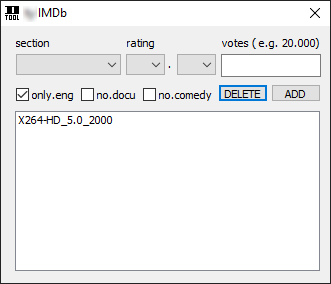
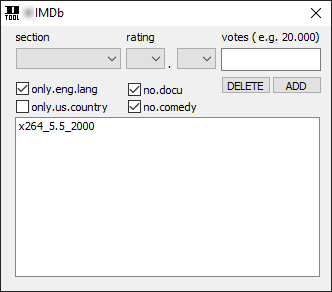
8.7.5

diff --git a/SiteSetup.html b/SiteSetup.html
@@ -199,7 +199,7 @@ Pfad dann bei mehreren Subdirs so angeben: DIR/SUBDIR/SUBDIR      <br>
         <strong>- mp3 foreign</strong><br />
         Den Foreigncheck bei MP3/FLAC Sektionen ausschalten <br>
         <strong>- IMDb</strong><br>
-        Zum einstellen der erlaubten Ratings und Votes bei Filmen. Zusätzlich kann man in englischen Filmsektionen  checken lassen ob die Sprache Englisch, es Doku oder Comedy ist.<br />
+        Zum einstellen der erlaubten Ratings und Votes bei Filmen. Zusätzlich kann man in englischen Filmsektionen  checken lassen ob die Sprache Englisch oder das Produktionsland USA ist, es Doku oder Comedy ist.<br />
         Bei Comedy werden allerdings auch  Filmkomödien ausgeschlossen, nicht nur Comedyshows.<br>
         <strong>- dateformat</strong><br>
         Hier stellt man das Standard Datumsformat ein, das bei Dated-Sections auf der Site benutzt wird<br />
@@ -324,7 +324,7 @@ Eingabefeld stand, doppelt klicken), und entsprechend editieren, dann in
     <p>&nbsp; </p>
     <p><img src="SiteSetup-Dateien/menu-sections.png" width="365" height="567"><br />
       <br />
-      <img src="SiteSetup-Dateien/menu-imdb.png" width="331" height="284"><br />
+      <img src="SiteSetup-Dateien/menu-imdb.png" width="332" height="292"><br />
     </p>
     <p>&nbsp;</p>
     <p>&nbsp; </p>

diff --git a/MainSetup.html b/MainSetup.html
@@ -243,7 +243,13 @@ schnellsten oder langsamsten sind      </p>
 ansonsten reagiert das Script nicht.Gibt man ein # an, werden alle chans
  genommen. Ich würde nur dazu raten, alle Chans einzeln einzutragen, 
 wenn man neben Sitechans viele andere offen hat. Reine 
-Performance-Option</p>
+Performance-Option<br />
+<br />
+<strong>/dteditsport</strong></p>
+      <p>Sport definiert man global über diesen Befehl, alternativ kann man auch das Kontextmenü nutzen. Man kann einzelne Einträge mit einem Leerzeichen getrennt eingeben, dieses können normale Einträge sein (keine Wildcards) oder Regex.<br />
+        <br />
+        <strong>Kontextmenü</strong></p>
+      <p>Ein paar Einstellungen kann man nur im Kontextmenü vornehmen, somit ist es wichtig da auch mal reinzugucken. Dazu zählen Timereinstellungen bzgl. FTP-Clienten und andere Einstellungen zu FTPRush, OMBb Key und andere eher Kleinigkeiten. </p>
 <p class="normalschrift">&nbsp;</p></td>
     <td width="543" valign="top" align="center"><p>&nbsp;</p>
       <p><img src="MainSetup-Dateien/menu-main.png" width="118" height="567"><br />

diff --git a/Installation.html b/Installation.html
@@ -168,8 +168,9 @@ body,td,th {
         </strong></p>
       <p class="normalschrift">Beim updaten reicht es normalerweise aus die d-tool.mrc und die d-tool.dialogs.mrc im laufenden Betrieb zu ersetzen. Daraufhin meldet
         mIRC eine Dateiänderung für die entsprechenden Dateien durch ein Popup, das man dann bestätigen muss.<br />
-      <br />
-      Sollte weiteres notwendig sein, gibt es  eine entsprechende Anleitung zu der Version.</p>
+        Bei Versionssprüngen wie X.x gibts es auch ein geändertes Logo (das im   Hauptdialog angezeigt wird), das ebenfalls ersetzt werden sollte.<br />
+        <br />
+        Sollte weiteres notwendig sein, gibt es  eine entsprechende Anleitung zu der Version.</p>
       <p>&nbsp;</p></td>
     <td class="normalschrift" width="1" valign="bottom" align="right">&nbsp;</td>
   </tr>

diff --git a/BlackWhitelist.html b/BlackWhitelist.html
@@ -216,7 +216,7 @@ body,td,th {
 <p><br />
   <strong>Globale Blacklist</strong>:<br />
   <br />
-  Es gehen nur Wildcards. Anders als in den Sitelisten müssen hier die   Einträge immer vorne und hinten einen Stern haben. Ein <span class="Grüntext"><strong>!</strong></span> macht den   Eintrag case-sensitive, falls man das braucht.<br />
+  Es gehen Wildcards und Regex. Anders als in den Sitelisten müssen hier die   Einträge immer vorne und hinten einen Stern haben. Ein <span class="Grüntext"><strong>!</strong></span> macht den   Eintrag case-sensitive, falls man das braucht.<br />
   <br />
 </p>
 <p><br />

diff --git a/index.html b/index.html
@@ -143,7 +143,7 @@ body {
       <span class="KleinerText"><a href="https://d--tool-github-io.translate.goog/index.html?_x_tr_sl=de&amp;_x_tr_tl=en&amp;_x_tr_hl=de&amp;_x_tr_pto=wapp" class="helpdesk1"><span class="link-nodecoration-grey-10px"><br />
         <br />
         translate me</span></a></span></p></td>
-    <td width="228" valign="top"><p class="mini_text"><a href="Latest.html" class="link-normal">dt.v.8.7</a><br />
+    <td width="228" valign="top"><p class="mini_text"><a href="Latest.html" class="link-normal">dt.v.8.7</a>.5<br />
         <br />
         <br />
         <br />
